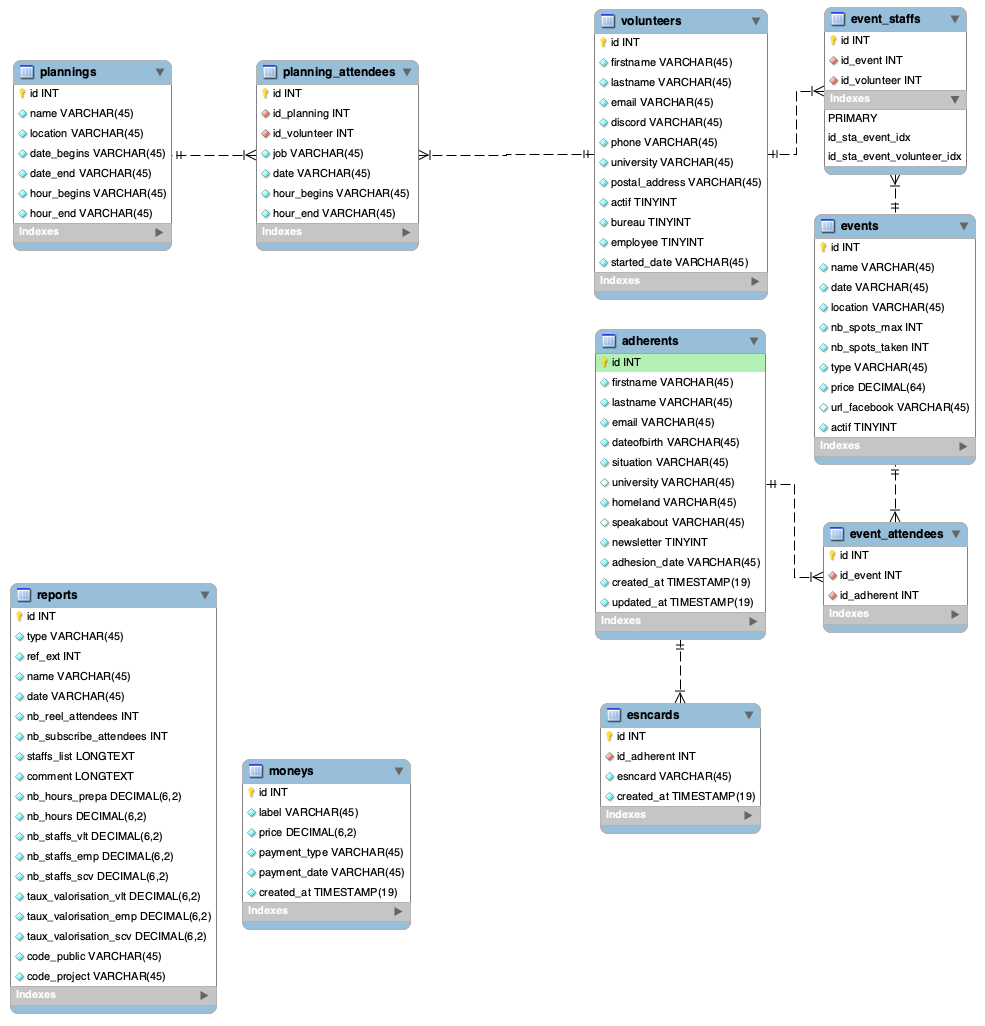
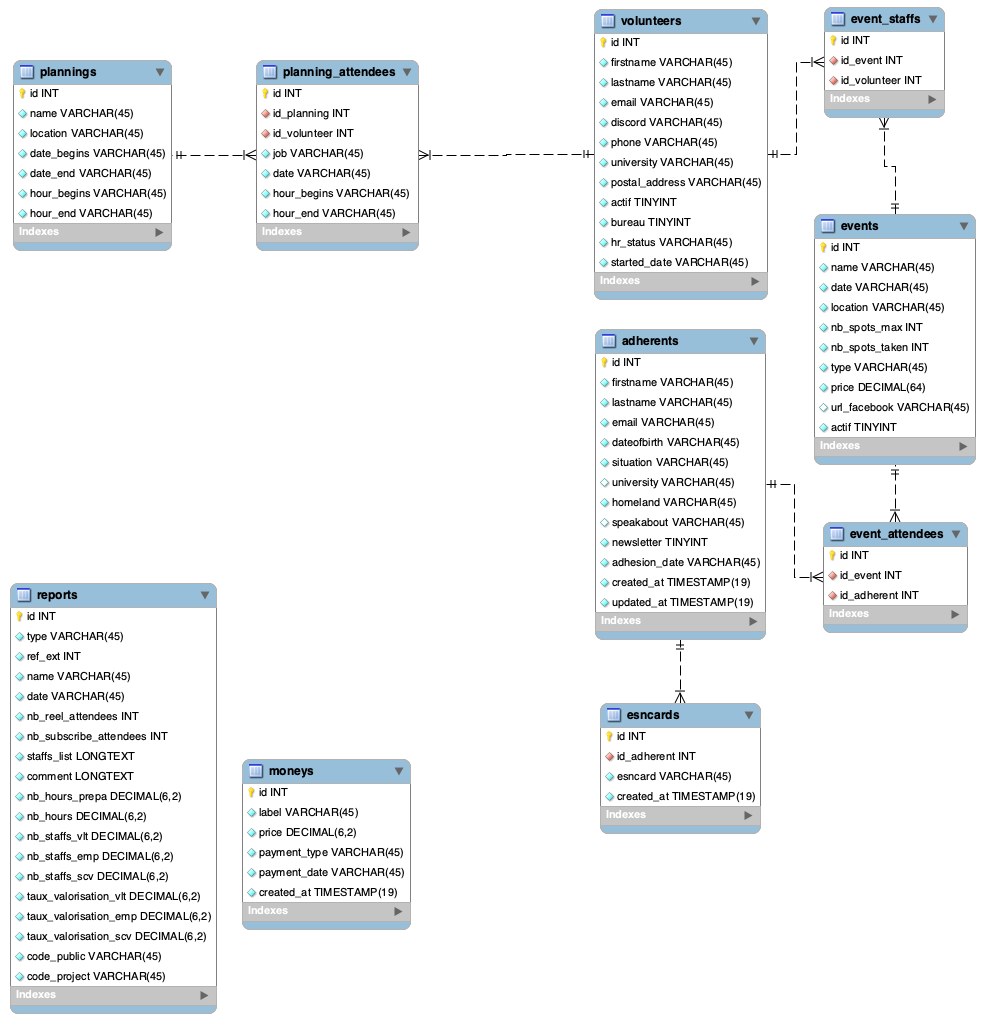
Volunteer Employee fix (#77)
*Replace employee by hr_status in volunteer module
*Correct every specimen data need
*Update doc

diff --git a/modules/event/setup_test.go b/modules/event/setup_test.go
@@ -42,16 +42,16 @@ func testMainSetup() {
 	adherent.NewAdherent(&adherent.Adherent{Firstname: "Test4", Lastname: "Tutu", Email: "toto@toto.fr", Dateofbirth: "1995-04-24", Situation: "worker", University: "Nancy", Homeland: "Pologne", Speakabout: "Facebook", Newsletter: false, AdhesionDate: "1995-04-24"})
 
 	volunteer.CreateVolunteersTable()
-	volunteer.NewVolunteer(&volunteer.Volunteer{Firstname: "Ash", Lastname: "Ketchum", Email: "ash.ketchum@master.com", Discord: "TheVeryBest", Phone: "0123456789", University: "Indigo", PostalAddress: "01 bis house, 00001 Pallet Town, Kanto", Actif: true, Bureau: false, Employee: false, StartedDate: "1997-04-01"})
-	volunteer.NewVolunteer(&volunteer.Volunteer{Firstname: "Gary", Lastname: "Oak", Email: "gary.oak@rival.kt", Discord: "TheRival", Phone: "0123456789", University: "Indigo", PostalAddress: "02 house, 00001 Pallet Town, Kanto", Actif: true, Bureau: false, Employee: false, StartedDate: "1997-04-01"})
-	volunteer.NewVolunteer(&volunteer.Volunteer{Firstname: "Cynthia", Lastname: "Shirona", Email: "master@league.si", Discord: "HistoryLover", Phone: "0123456789", University: "US", PostalAddress: "Salle du fond, 00019 Conseil 4, Sinnoh", Actif: true, Bureau: true, Employee: false, StartedDate: "1990-04-01"})
-	volunteer.NewVolunteer(&volunteer.Volunteer{Firstname: "Peter", Lastname: "Wataru", Email: "master@indigo.kt", Discord: "Dragoooooon", Phone: "0123456789", University: "Indigo", PostalAddress: "Salle du fond, 00019 League Indigo, Kanto", Actif: true, Bureau: true, Employee: false, StartedDate: "1991-12-01"})
-	volunteer.NewVolunteer(&volunteer.Volunteer{Firstname: "Pierre", Lastname: "Takeshi", Email: "pierre@argenta.kt", Discord: "TakeCare", Phone: "0123456789", University: "Argenta", PostalAddress: "Arena, 00003 Argenta, Kanto", Actif: true, Bureau: true, Employee: false, StartedDate: "1988-04-01"})
-	volunteer.NewVolunteer(&volunteer.Volunteer{Firstname: "Ondine", Lastname: "Kasumi", Email: "ondine@azuria.kt", Discord: "TheBeautiful", Phone: "0123456789", University: "Azuria", PostalAddress: "Arena, 00004 Azuria, Kanto", Actif: true, Bureau: true, Employee: false, StartedDate: "1989-04-01"})
-	volunteer.NewVolunteer(&volunteer.Volunteer{Firstname: "Prof.", Lastname: "Oak", Email: "prof.oak@kanto.kt", Discord: "Prof", Phone: "0123456789", University: "Indigo", PostalAddress: "01 house, 00001 Pallet Town, Kanto", Actif: false, Bureau: false, Employee: false, StartedDate: "1970-04-01"})
-	volunteer.NewVolunteer(&volunteer.Volunteer{Firstname: "Prof.", Lastname: "Orm", Email: "prof.orm@johto.jt", Discord: "EggMaster", Phone: "0123456789", University: "Indigo", PostalAddress: "01 bis house, 00001 Bourg Geon, Johto", Actif: false, Bureau: false, Employee: false, StartedDate: "1980-04-01"})
-	volunteer.NewVolunteer(&volunteer.Volunteer{Firstname: "Flora", Lastname: "Saphir", Email: "flora@hoenn.com", Discord: "Gobouuuu", Phone: "0123456789", University: "Bourg-en-Vol", PostalAddress: "01 bis house, 00001 Bourg-en-Vol, Hoenn", Actif: true, Bureau: true, Employee: false, StartedDate: "2000-04-01"})
-	volunteer.NewVolunteer(&volunteer.Volunteer{Firstname: "President", Lastname: "Shehroz", Email: "president@league.ga", Discord: "Pres", Phone: "+49 0123456789", University: "Macro Cosmos", PostalAddress: "Macro Cosmos site, 00008 Winscor, Galar", Actif: true, Bureau: false, Employee: true, StartedDate: "2023-01-01"})
+	volunteer.NewVolunteer(&volunteer.Volunteer{Firstname: "Ash", Lastname: "Ketchum", Email: "ash.ketchum@master.com", Discord: "TheVeryBest", Phone: "0123456789", University: "Indigo", PostalAddress: "01 bis house, 00001 Pallet Town, Kanto", Actif: true, Bureau: false, HrStatus: "volunteer", StartedDate: "1997-04-01"})
+	volunteer.NewVolunteer(&volunteer.Volunteer{Firstname: "Gary", Lastname: "Oak", Email: "gary.oak@rival.kt", Discord: "TheRival", Phone: "0123456789", University: "Indigo", PostalAddress: "02 house, 00001 Pallet Town, Kanto", Actif: true, Bureau: false, HrStatus: "volunteer", StartedDate: "1997-04-01"})
+	volunteer.NewVolunteer(&volunteer.Volunteer{Firstname: "Cynthia", Lastname: "Shirona", Email: "master@league.si", Discord: "HistoryLover", Phone: "0123456789", University: "US", PostalAddress: "Salle du fond, 00019 Conseil 4, Sinnoh", Actif: true, Bureau: true, HrStatus: "volunteer", StartedDate: "1990-04-01"})
+	volunteer.NewVolunteer(&volunteer.Volunteer{Firstname: "Peter", Lastname: "Wataru", Email: "master@indigo.kt", Discord: "Dragoooooon", Phone: "0123456789", University: "Indigo", PostalAddress: "Salle du fond, 00019 League Indigo, Kanto", Actif: true, Bureau: true, HrStatus: "volunteer", StartedDate: "1991-12-01"})
+	volunteer.NewVolunteer(&volunteer.Volunteer{Firstname: "Pierre", Lastname: "Takeshi", Email: "pierre@argenta.kt", Discord: "TakeCare", Phone: "0123456789", University: "Argenta", PostalAddress: "Arena, 00003 Argenta, Kanto", Actif: true, Bureau: true, HrStatus: "volunteer", StartedDate: "1988-04-01"})
+	volunteer.NewVolunteer(&volunteer.Volunteer{Firstname: "Ondine", Lastname: "Kasumi", Email: "ondine@azuria.kt", Discord: "TheBeautiful", Phone: "0123456789", University: "Azuria", PostalAddress: "Arena, 00004 Azuria, Kanto", Actif: true, Bureau: true, HrStatus: "volunteer", StartedDate: "1989-04-01"})
+	volunteer.NewVolunteer(&volunteer.Volunteer{Firstname: "Prof.", Lastname: "Oak", Email: "prof.oak@kanto.kt", Discord: "Prof", Phone: "0123456789", University: "Indigo", PostalAddress: "01 house, 00001 Pallet Town, Kanto", Actif: false, Bureau: false, HrStatus: "volunteer", StartedDate: "1970-04-01"})
+	volunteer.NewVolunteer(&volunteer.Volunteer{Firstname: "Prof.", Lastname: "Orm", Email: "prof.orm@johto.jt", Discord: "EggMaster", Phone: "0123456789", University: "Indigo", PostalAddress: "01 bis house, 00001 Bourg Geon, Johto", Actif: false, Bureau: false, HrStatus: "volunteer", StartedDate: "1980-04-01"})
+	volunteer.NewVolunteer(&volunteer.Volunteer{Firstname: "Flora", Lastname: "Saphir", Email: "flora@hoenn.com", Discord: "Gobouuuu", Phone: "0123456789", University: "Bourg-en-Vol", PostalAddress: "01 bis house, 00001 Bourg-en-Vol, Hoenn", Actif: true, Bureau: true, HrStatus: "volunteer", StartedDate: "2000-04-01"})
+	volunteer.NewVolunteer(&volunteer.Volunteer{Firstname: "President", Lastname: "Shehroz", Email: "president@league.ga", Discord: "Pres", Phone: "+49 0123456789", University: "Macro Cosmos", PostalAddress: "Macro Cosmos site, 00008 Winscor, Galar", Actif: true, Bureau: false, HrStatus: "volunteer", StartedDate: "2023-01-01"})
 
 	CreateEventsTable()
 

diff --git a/modules/planning/setup_test.go b/modules/planning/setup_test.go
@@ -29,16 +29,16 @@ func testMainSetup() {
 	database.DatabaseInit()
 
 	volunteer.CreateVolunteersTable()
-	volunteer.NewVolunteer(&volunteer.Volunteer{Firstname: "Ash", Lastname: "Ketchum", Email: "ash.ketchum@master.com", Discord: "TheVeryBest", Phone: "0123456789", University: "Indigo", PostalAddress: "01 bis house, 00001 Pallet Town, Kanto", Actif: true, Bureau: false, Employee: false, StartedDate: "1997-04-01"})
-	volunteer.NewVolunteer(&volunteer.Volunteer{Firstname: "Gary", Lastname: "Oak", Email: "gary.oak@rival.kt", Discord: "TheRival", Phone: "0123456789", University: "Indigo", PostalAddress: "02 house, 00001 Pallet Town, Kanto", Actif: true, Bureau: false, Employee: false, StartedDate: "1997-04-01"})
-	volunteer.NewVolunteer(&volunteer.Volunteer{Firstname: "Cynthia", Lastname: "Shirona", Email: "master@league.si", Discord: "HistoryLover", Phone: "0123456789", University: "US", PostalAddress: "Salle du fond, 00019 Conseil 4, Sinnoh", Actif: true, Bureau: true, Employee: false, StartedDate: "1990-04-01"})
-	volunteer.NewVolunteer(&volunteer.Volunteer{Firstname: "Peter", Lastname: "Wataru", Email: "master@indigo.kt", Discord: "Dragoooooon", Phone: "0123456789", University: "Indigo", PostalAddress: "Salle du fond, 00019 League Indigo, Kanto", Actif: true, Bureau: true, Employee: false, StartedDate: "1991-12-01"})
-	volunteer.NewVolunteer(&volunteer.Volunteer{Firstname: "Pierre", Lastname: "Takeshi", Email: "pierre@argenta.kt", Discord: "TakeCare", Phone: "0123456789", University: "Argenta", PostalAddress: "Arena, 00003 Argenta, Kanto", Actif: true, Bureau: true, Employee: false, StartedDate: "1988-04-01"})
-	volunteer.NewVolunteer(&volunteer.Volunteer{Firstname: "Ondine", Lastname: "Kasumi", Email: "ondine@azuria.kt", Discord: "TheBeautiful", Phone: "0123456789", University: "Azuria", PostalAddress: "Arena, 00004 Azuria, Kanto", Actif: true, Bureau: true, Employee: false, StartedDate: "1989-04-01"})
-	volunteer.NewVolunteer(&volunteer.Volunteer{Firstname: "Prof.", Lastname: "Oak", Email: "prof.oak@kanto.kt", Discord: "Prof", Phone: "0123456789", University: "Indigo", PostalAddress: "01 house, 00001 Pallet Town, Kanto", Actif: false, Bureau: false, Employee: false, StartedDate: "1970-04-01"})
-	volunteer.NewVolunteer(&volunteer.Volunteer{Firstname: "Prof.", Lastname: "Orm", Email: "prof.orm@johto.jt", Discord: "EggMaster", Phone: "0123456789", University: "Indigo", PostalAddress: "01 bis house, 00001 Bourg Geon, Johto", Actif: false, Bureau: false, Employee: false, StartedDate: "1980-04-01"})
-	volunteer.NewVolunteer(&volunteer.Volunteer{Firstname: "Flora", Lastname: "Saphir", Email: "flora@hoenn.com", Discord: "Gobouuuu", Phone: "0123456789", University: "Bourg-en-Vol", PostalAddress: "01 bis house, 00001 Bourg-en-Vol, Hoenn", Actif: true, Bureau: true, Employee: false, StartedDate: "2000-04-01"})
-	volunteer.NewVolunteer(&volunteer.Volunteer{Firstname: "President", Lastname: "Shehroz", Email: "president@league.ga", Discord: "Pres", Phone: "+49 0123456789", University: "Macro Cosmos", PostalAddress: "Macro Cosmos site, 00008 Winscor, Galar", Actif: true, Bureau: false, Employee: true, StartedDate: "2023-01-01"})
+	volunteer.NewVolunteer(&volunteer.Volunteer{Firstname: "Ash", Lastname: "Ketchum", Email: "ash.ketchum@master.com", Discord: "TheVeryBest", Phone: "0123456789", University: "Indigo", PostalAddress: "01 bis house, 00001 Pallet Town, Kanto", Actif: true, Bureau: false, HrStatus: "volunteer", StartedDate: "1997-04-01"})
+	volunteer.NewVolunteer(&volunteer.Volunteer{Firstname: "Gary", Lastname: "Oak", Email: "gary.oak@rival.kt", Discord: "TheRival", Phone: "0123456789", University: "Indigo", PostalAddress: "02 house, 00001 Pallet Town, Kanto", Actif: true, Bureau: false, HrStatus: "volunteer", StartedDate: "1997-04-01"})
+	volunteer.NewVolunteer(&volunteer.Volunteer{Firstname: "Cynthia", Lastname: "Shirona", Email: "master@league.si", Discord: "HistoryLover", Phone: "0123456789", University: "US", PostalAddress: "Salle du fond, 00019 Conseil 4, Sinnoh", Actif: true, Bureau: true, HrStatus: "volunteer", StartedDate: "1990-04-01"})
+	volunteer.NewVolunteer(&volunteer.Volunteer{Firstname: "Peter", Lastname: "Wataru", Email: "master@indigo.kt", Discord: "Dragoooooon", Phone: "0123456789", University: "Indigo", PostalAddress: "Salle du fond, 00019 League Indigo, Kanto", Actif: true, Bureau: true, HrStatus: "volunteer", StartedDate: "1991-12-01"})
+	volunteer.NewVolunteer(&volunteer.Volunteer{Firstname: "Pierre", Lastname: "Takeshi", Email: "pierre@argenta.kt", Discord: "TakeCare", Phone: "0123456789", University: "Argenta", PostalAddress: "Arena, 00003 Argenta, Kanto", Actif: true, Bureau: true, HrStatus: "volunteer", StartedDate: "1988-04-01"})
+	volunteer.NewVolunteer(&volunteer.Volunteer{Firstname: "Ondine", Lastname: "Kasumi", Email: "ondine@azuria.kt", Discord: "TheBeautiful", Phone: "0123456789", University: "Azuria", PostalAddress: "Arena, 00004 Azuria, Kanto", Actif: true, Bureau: true, HrStatus: "volunteer", StartedDate: "1989-04-01"})
+	volunteer.NewVolunteer(&volunteer.Volunteer{Firstname: "Prof.", Lastname: "Oak", Email: "prof.oak@kanto.kt", Discord: "Prof", Phone: "0123456789", University: "Indigo", PostalAddress: "01 house, 00001 Pallet Town, Kanto", Actif: false, Bureau: false, HrStatus: "volunteer", StartedDate: "1970-04-01"})
+	volunteer.NewVolunteer(&volunteer.Volunteer{Firstname: "Prof.", Lastname: "Orm", Email: "prof.orm@johto.jt", Discord: "EggMaster", Phone: "0123456789", University: "Indigo", PostalAddress: "01 bis house, 00001 Bourg Geon, Johto", Actif: false, Bureau: false, HrStatus: "volunteer", StartedDate: "1980-04-01"})
+	volunteer.NewVolunteer(&volunteer.Volunteer{Firstname: "Flora", Lastname: "Saphir", Email: "flora@hoenn.com", Discord: "Gobouuuu", Phone: "0123456789", University: "Bourg-en-Vol", PostalAddress: "01 bis house, 00001 Bourg-en-Vol, Hoenn", Actif: true, Bureau: true, HrStatus: "volunteer", StartedDate: "2000-04-01"})
+	volunteer.NewVolunteer(&volunteer.Volunteer{Firstname: "President", Lastname: "Shehroz", Email: "president@league.ga", Discord: "Pres", Phone: "+49 0123456789", University: "Macro Cosmos", PostalAddress: "Macro Cosmos site, 00008 Winscor, Galar", Actif: true, Bureau: false, HrStatus: "employee", StartedDate: "2023-01-01"})
 
 	CreatePlanningsTable()
 

diff --git a/modules/volunteer/specimen.go b/modules/volunteer/specimen.go
@@ -1,17 +1,17 @@
 package volunteer
 
 func Specimen() {
-	NewVolunteer(&Volunteer{Firstname: "Ash", Lastname: "Ketchum", Email: "ash.ketchum@master.com", Discord: "TheVeryBest", Phone: "+33 0123456789", University: "Indigo", PostalAddress: "01 bis house, 00001 Pallet Town, Kanto", Actif: true, Bureau: false, Employee: false, StartedDate: "1997-04-01"})
-	NewVolunteer(&Volunteer{Firstname: "Gary", Lastname: "Oak", Email: "gary.oak@rival.kt", Discord: "TheRival", Phone: "+33 0123456789", University: "Indigo", PostalAddress: "02 house, 00001 Pallet Town, Kanto", Actif: true, Bureau: false, Employee: false, StartedDate: "1997-04-01"})
-	NewVolunteer(&Volunteer{Firstname: "Flora", Lastname: "Saphir", Email: "flora@hoenn.com", Discord: "Gobouuuu", Phone: "+44 0123456789", University: "Bourg-en-Vol", PostalAddress: "01 bis house, 00001 Bourg-en-Vol, Hoenn", Actif: true, Bureau: false, Employee: false, StartedDate: "2000-04-01"})
+	NewVolunteer(&Volunteer{Firstname: "Ash", Lastname: "Ketchum", Email: "ash.ketchum@master.com", Discord: "TheVeryBest", Phone: "+33 0123456789", University: "Indigo", PostalAddress: "01 bis house, 00001 Pallet Town, Kanto", Actif: true, Bureau: false, HrStatus: "volunteer", StartedDate: "1997-04-01"})
+	NewVolunteer(&Volunteer{Firstname: "Gary", Lastname: "Oak", Email: "gary.oak@rival.kt", Discord: "TheRival", Phone: "+33 0123456789", University: "Indigo", PostalAddress: "02 house, 00001 Pallet Town, Kanto", Actif: true, Bureau: false, HrStatus: "volunteer", StartedDate: "1997-04-01"})
+	NewVolunteer(&Volunteer{Firstname: "Flora", Lastname: "Saphir", Email: "flora@hoenn.com", Discord: "Gobouuuu", Phone: "+44 0123456789", University: "Bourg-en-Vol", PostalAddress: "01 bis house, 00001 Bourg-en-Vol, Hoenn", Actif: true, Bureau: false, HrStatus: "volunteer", StartedDate: "2000-04-01"})
 
-	NewVolunteer(&Volunteer{Firstname: "Cynthia", Lastname: "Shirona", Email: "master@league.si", Discord: "HistoryLover", Phone: "+49 0123456789", University: "US", PostalAddress: "Salle du fond, 00019 Conseil 4, Sinnoh", Actif: true, Bureau: true, Employee: false, StartedDate: "1990-04-01"})
-	NewVolunteer(&Volunteer{Firstname: "Peter", Lastname: "Wataru", Email: "master@indigo.kt", Discord: "Dragoooooon", Phone: "+34 0123456789", University: "Indigo", PostalAddress: "Salle du fond, 00019 League Indigo, Kanto", Actif: true, Bureau: true, Employee: false, StartedDate: "1991-12-01"})
-	NewVolunteer(&Volunteer{Firstname: "Pierre", Lastname: "Takeshi", Email: "pierre@argenta.kt", Discord: "TakeCare", Phone: "+33 0123456789", University: "Argenta", PostalAddress: "Arena, 00003 Argenta, Kanto", Actif: true, Bureau: true, Employee: false, StartedDate: "1988-04-01"})
-	NewVolunteer(&Volunteer{Firstname: "Ondine", Lastname: "Kasumi", Email: "ondine@azuria.kt", Discord: "TheBeautiful", Phone: "+33 0123456789", University: "Azuria", PostalAddress: "Arena, 00004 Azuria, Kanto", Actif: true, Bureau: true, Employee: false, StartedDate: "1989-04-01"})
+	NewVolunteer(&Volunteer{Firstname: "Cynthia", Lastname: "Shirona", Email: "master@league.si", Discord: "HistoryLover", Phone: "+49 0123456789", University: "US", PostalAddress: "Salle du fond, 00019 Conseil 4, Sinnoh", Actif: true, Bureau: true, HrStatus: "volunteer", StartedDate: "1990-04-01"})
+	NewVolunteer(&Volunteer{Firstname: "Peter", Lastname: "Wataru", Email: "master@indigo.kt", Discord: "Dragoooooon", Phone: "+34 0123456789", University: "Indigo", PostalAddress: "Salle du fond, 00019 League Indigo, Kanto", Actif: true, Bureau: true, HrStatus: "volunteer", StartedDate: "1991-12-01"})
+	NewVolunteer(&Volunteer{Firstname: "Pierre", Lastname: "Takeshi", Email: "pierre@argenta.kt", Discord: "TakeCare", Phone: "+33 0123456789", University: "Argenta", PostalAddress: "Arena, 00003 Argenta, Kanto", Actif: true, Bureau: true, HrStatus: "volunteer", StartedDate: "1988-04-01"})
+	NewVolunteer(&Volunteer{Firstname: "Ondine", Lastname: "Kasumi", Email: "ondine@azuria.kt", Discord: "TheBeautiful", Phone: "+33 0123456789", University: "Azuria", PostalAddress: "Arena, 00004 Azuria, Kanto", Actif: true, Bureau: true, HrStatus: "volunteer", StartedDate: "1989-04-01"})
 
-	NewVolunteer(&Volunteer{Firstname: "Prof.", Lastname: "Oak", Email: "prof.oak@kanto.kt", Discord: "Prof", Phone: "+33 0123456789", University: "Indigo", PostalAddress: "01 house, 00001 Pallet Town, Kanto", Actif: false, Bureau: false, Employee: false, StartedDate: "1970-04-01"})
-	NewVolunteer(&Volunteer{Firstname: "Prof.", Lastname: "Orm", Email: "prof.orm@johto.jt", Discord: "EggMaster", Phone: "+34 0123456789", University: "Indigo", PostalAddress: "01 bis house, 00001 Bourg Geon, Johto", Actif: false, Bureau: false, Employee: false, StartedDate: "1980-04-01"})
+	NewVolunteer(&Volunteer{Firstname: "Prof.", Lastname: "Oak", Email: "prof.oak@kanto.kt", Discord: "Prof", Phone: "+33 0123456789", University: "Indigo", PostalAddress: "01 house, 00001 Pallet Town, Kanto", Actif: false, Bureau: false, HrStatus: "volunteer", StartedDate: "1970-04-01"})
+	NewVolunteer(&Volunteer{Firstname: "Prof.", Lastname: "Orm", Email: "prof.orm@johto.jt", Discord: "EggMaster", Phone: "+34 0123456789", University: "Indigo", PostalAddress: "01 bis house, 00001 Bourg Geon, Johto", Actif: false, Bureau: false, HrStatus: "volunteer", StartedDate: "1980-04-01"})
 
-	NewVolunteer(&Volunteer{Firstname: "President", Lastname: "Shehroz", Email: "president@league.ga", Discord: "Pres", Phone: "+49 0123456789", University: "Macro Cosmos", PostalAddress: "Macro Cosmos site, 00008 Winscor, Galar", Actif: true, Bureau: false, Employee: true, StartedDate: "2023-01-01"})
+	NewVolunteer(&Volunteer{Firstname: "President", Lastname: "Shehroz", Email: "president@league.ga", Discord: "Pres", Phone: "+49 0123456789", University: "Macro Cosmos", PostalAddress: "Macro Cosmos site, 00008 Winscor, Galar", Actif: true, Bureau: false, HrStatus: "employee", StartedDate: "2023-01-01"})
 }

diff --git a/modules/volunteer/model.go b/modules/volunteer/model.go
@@ -32,9 +32,9 @@ type Volunteer struct {
 	// Does the volunteer has a bureau role
 	// in: bool
 	Bureau bool `json:"bureau"`
-	// Does the volunteer is an employee
-	// in: bool
-	Employee bool `json:"employee"`
+	// Status of the volunteer
+	// in: string
+	HrStatus string `json:"hr_status"`
 	// Started of date of volunteering
 	// in: string
 	StartedDate string `json:"started_date"`
@@ -43,8 +43,8 @@ type Volunteer struct {
 type Volunteers []Volunteer
 
 func NewVolunteer(vlt *Volunteer) {
-	stmt, _ := TheDb().Prepare("INSERT INTO volunteers (firstname, lastname, email, discord, phone, university, postal_address, actif, bureau, employee, started_date) VALUES (?,?,?,?,?,?,?,?,?,?,?);")
-	_, err := stmt.Exec(vlt.Firstname, vlt.Lastname, vlt.Email, vlt.Discord, vlt.Phone, vlt.University, vlt.PostalAddress, vlt.Actif, vlt.Bureau, vlt.Employee, vlt.StartedDate)
+	stmt, _ := TheDb().Prepare("INSERT INTO volunteers (firstname, lastname, email, discord, phone, university, postal_address, actif, bureau, hr_status, started_date) VALUES (?,?,?,?,?,?,?,?,?,?,?);")
+	_, err := stmt.Exec(vlt.Firstname, vlt.Lastname, vlt.Email, vlt.Discord, vlt.Phone, vlt.University, vlt.PostalAddress, vlt.Actif, vlt.Bureau, vlt.HrStatus, vlt.StartedDate)
 	if err != nil {
 		TheLogger().LogError("volunteer", "can't create new volunteer.", err)
 	}
@@ -54,7 +54,7 @@ func FindVolunteerById(id int) *Volunteer {
 	var vlt Volunteer
 
 	row := TheDb().QueryRow("SELECT * FROM volunteers WHERE id = ?;", id)
-	err := row.Scan(&vlt.Id, &vlt.Firstname, &vlt.Lastname, &vlt.Email, &vlt.Discord, &vlt.Phone, &vlt.University, &vlt.PostalAddress, &vlt.Actif, &vlt.Bureau, &vlt.Employee, &vlt.StartedDate)
+	err := row.Scan(&vlt.Id, &vlt.Firstname, &vlt.Lastname, &vlt.Email, &vlt.Discord, &vlt.Phone, &vlt.University, &vlt.PostalAddress, &vlt.Actif, &vlt.Bureau, &vlt.HrStatus, &vlt.StartedDate)
 
 	if err != nil {
 		TheLogger().LogWarning("volunteer", "volunteer id not found.", err)
@@ -78,7 +78,7 @@ func AllVolunteers() *Volunteers {
 	for rows.Next() {
 		var vlt Volunteer
 
-		err := rows.Scan(&vlt.Id, &vlt.Firstname, &vlt.Lastname, &vlt.Email, &vlt.Discord, &vlt.Phone, &vlt.University, &vlt.PostalAddress, &vlt.Actif, &vlt.Bureau, &vlt.Employee, &vlt.StartedDate)
+		err := rows.Scan(&vlt.Id, &vlt.Firstname, &vlt.Lastname, &vlt.Email, &vlt.Discord, &vlt.Phone, &vlt.University, &vlt.PostalAddress, &vlt.Actif, &vlt.Bureau, &vlt.HrStatus, &vlt.StartedDate)
 
 		if err != nil {
 			TheLogger().LogError("volunteer", "volunteers not found.", err)
@@ -91,13 +91,13 @@ func AllVolunteers() *Volunteers {
 }
 
 func UpdateVolunteer(vlt *Volunteer) {
-	stmt, err := TheDb().Prepare("UPDATE volunteers SET firstname=?, lastname=?, email=?, discord=?, phone=?, university=?, postal_address=?, actif=?, bureau=?, employee=?, started_date=? WHERE id=?;")
+	stmt, err := TheDb().Prepare("UPDATE volunteers SET firstname=?, lastname=?, email=?, discord=?, phone=?, university=?, postal_address=?, actif=?, bureau=?, hr_status=?, started_date=? WHERE id=?;")
 
 	if err != nil {
 		TheLogger().LogError("volunteer", "problem with the db.", err)
 	}
 
-	_, err = stmt.Exec(vlt.Firstname, vlt.Lastname, vlt.Email, vlt.Discord, vlt.Phone, vlt.University, vlt.PostalAddress, vlt.Actif, vlt.Bureau, vlt.Employee, vlt.StartedDate, vlt.Id)
+	_, err = stmt.Exec(vlt.Firstname, vlt.Lastname, vlt.Email, vlt.Discord, vlt.Phone, vlt.University, vlt.PostalAddress, vlt.Actif, vlt.Bureau, vlt.HrStatus, vlt.StartedDate, vlt.Id)
 
 	if err != nil {
 		TheLogger().LogError("volunteer", "volunteer can't be updated.", err)

diff --git a/modules/volunteer/model_test.go b/modules/volunteer/model_test.go
@@ -6,13 +6,13 @@ import (
 )
 
 func setUpModel() {
-	NewVolunteer(&Volunteer{Firstname: "Toto", Lastname: "Bob", Email: "toto.toto@bob.com", Discord: "Totot", Phone: "0123456789", University: "UBSB", PostalAddress: "32 rue du Soleil, 00001 Mars", Actif: true, Bureau: false, Employee: true, StartedDate: "2016-04-14"})
-	NewVolunteer(&Volunteer{Firstname: "Tata", Lastname: "Bob", Email: "toto.toto@bob.com", Discord: "Totot", Phone: "0123456789", University: "UBSB", PostalAddress: "32 rue du Soleil, 00001 Mars", Actif: false, Bureau: false, Employee: true, StartedDate: "2016-04-14"})
-	NewVolunteer(&Volunteer{Firstname: "Toto", Lastname: "Bob", Email: "toto.toto@bob.com", Discord: "Totot", Phone: "0123456789", University: "UBSB", PostalAddress: "32 rue du Soleil, 00001 Mars", Actif: true, Bureau: true, Employee: false, StartedDate: "2016-04-14"})
+	NewVolunteer(&Volunteer{Firstname: "Toto", Lastname: "Bob", Email: "toto.toto@bob.com", Discord: "Totot", Phone: "0123456789", University: "UBSB", PostalAddress: "32 rue du Soleil, 00001 Mars", Actif: true, Bureau: false, HrStatus: "employee", StartedDate: "2016-04-14"})
+	NewVolunteer(&Volunteer{Firstname: "Tata", Lastname: "Bob", Email: "toto.toto@bob.com", Discord: "Totot", Phone: "0123456789", University: "UBSB", PostalAddress: "32 rue du Soleil, 00001 Mars", Actif: false, Bureau: false, HrStatus: "scv", StartedDate: "2016-04-14"})
+	NewVolunteer(&Volunteer{Firstname: "Toto", Lastname: "Bob", Email: "toto.toto@bob.com", Discord: "Totot", Phone: "0123456789", University: "UBSB", PostalAddress: "32 rue du Soleil, 00001 Mars", Actif: true, Bureau: true, HrStatus: "volunteer", StartedDate: "2016-04-14"})
 }
 
 func TestNewVolunteer(t *testing.T) {
-	NewVolunteer(&Volunteer{Firstname: "Toto", Lastname: "Bob", Email: "toto.toto@bob.com", Discord: "Totot", Phone: "0123456789", University: "UBSB", PostalAddress: "32 rue du Soleil, 00001 Mars", Actif: false, Bureau: true, Employee: false, StartedDate: "2016-04-14"})
+	NewVolunteer(&Volunteer{Firstname: "Toto", Lastname: "Bob", Email: "toto.toto@bob.com", Discord: "Totot", Phone: "0123456789", University: "UBSB", PostalAddress: "32 rue du Soleil, 00001 Mars", Actif: false, Bureau: true, HrStatus: "volunteer", StartedDate: "2016-04-14"})
 }
 
 func TestFindVolunteerById(t *testing.T) {
@@ -33,7 +33,7 @@ func TestAllVolunteers(t *testing.T) {
 }
 
 func TestUpdateVolunteer(t *testing.T) {
-	vlt := Volunteer{Id: 3, Firstname: "Titi", Lastname: "titi", Email: "titi@titi.com", Discord: "Totot", Phone: "0123456789", University: "UBSB", PostalAddress: "32 rue du Soleil, 00001 Mars", Actif: false, Bureau: false, Employee: false, StartedDate: "2016-04-14"}
+	vlt := Volunteer{Id: 3, Firstname: "Titi", Lastname: "titi", Email: "titi@titi.com", Discord: "Totot", Phone: "0123456789", University: "UBSB", PostalAddress: "32 rue du Soleil, 00001 Mars", Actif: false, Bureau: false, HrStatus: "volunteer", StartedDate: "2016-04-14"}
 	UpdateVolunteer(&vlt)
 
 	vlt_3 := FindVolunteerById(3)

diff --git a/modules/volunteer/database.go b/modules/volunteer/database.go
@@ -13,7 +13,7 @@ func CreateVolunteersTable() {
 			postal_address VARCHAR(95) NOT NULL,
 			actif TINYINT NOT NULL,
 			bureau TINYINT NOT NULL,
-			employee TINYINT NOT NULL,
+			hr_status VARCHAR(45) NOT NULL,
 			started_date VARCHAR(45) NOT NULL,
 			PRIMARY KEY (id),
 			UNIQUE INDEX id_UNIQUE (id ASC)

diff --git a/modules/volunteer/README.md b/modules/volunteer/README.md
@@ -16,7 +16,7 @@ title: Module Volunteer
 - Postal address    string  `json:"postal_address"` - Postal address
 - Actif             bool    `json:"actif"`          - Status of the volunteer
 - Bureau            bool    `json:"bureau"`         - Does the volunteer has a bureau role
-- Employee          bool    `json:"employee"`       - Does the volunteer is an employee
+- HrStatus          string  `json:"hr_status"`      - Hr status of the volunteer
 - Started date      string  `json:"started_date"`   - Date of volunteering started
 
 The parameters `id` is calculated automatically.
@@ -60,7 +60,7 @@ curl -X POST "https://${MYSERVER}/${SECURE}/volunteers" \
         "postal_address": "01 bis house, 00001 Pallet Town, Kanto",
         "actif": true,
         "bureau": false,
-        "employee": false,
+        "hr_status": "volunteer",
         "started_date": "1997-04-01"
     }'
 ```
@@ -86,7 +86,7 @@ curl -X POST "https://${MYSERVER}/${SECURE}/volunteers/2" \
         "postal_address": "01 bis house, 00001 Pallet Town, Kanto",
         "actif": false,
         "bureau": false,
-        "employee": false,
+        "hr_status": "volunteer",
         "started_date": "1997-04-01"
     }'
 ```
